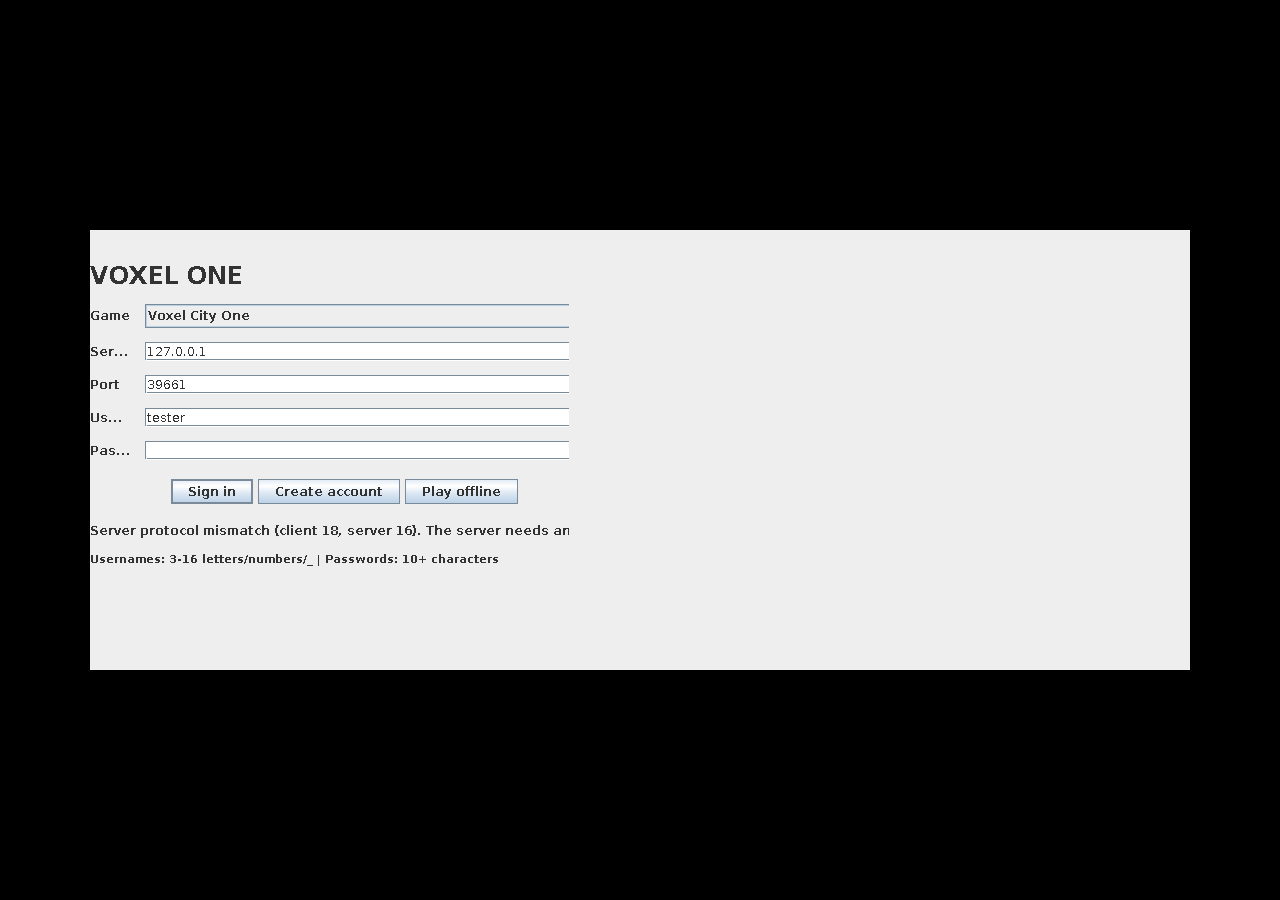
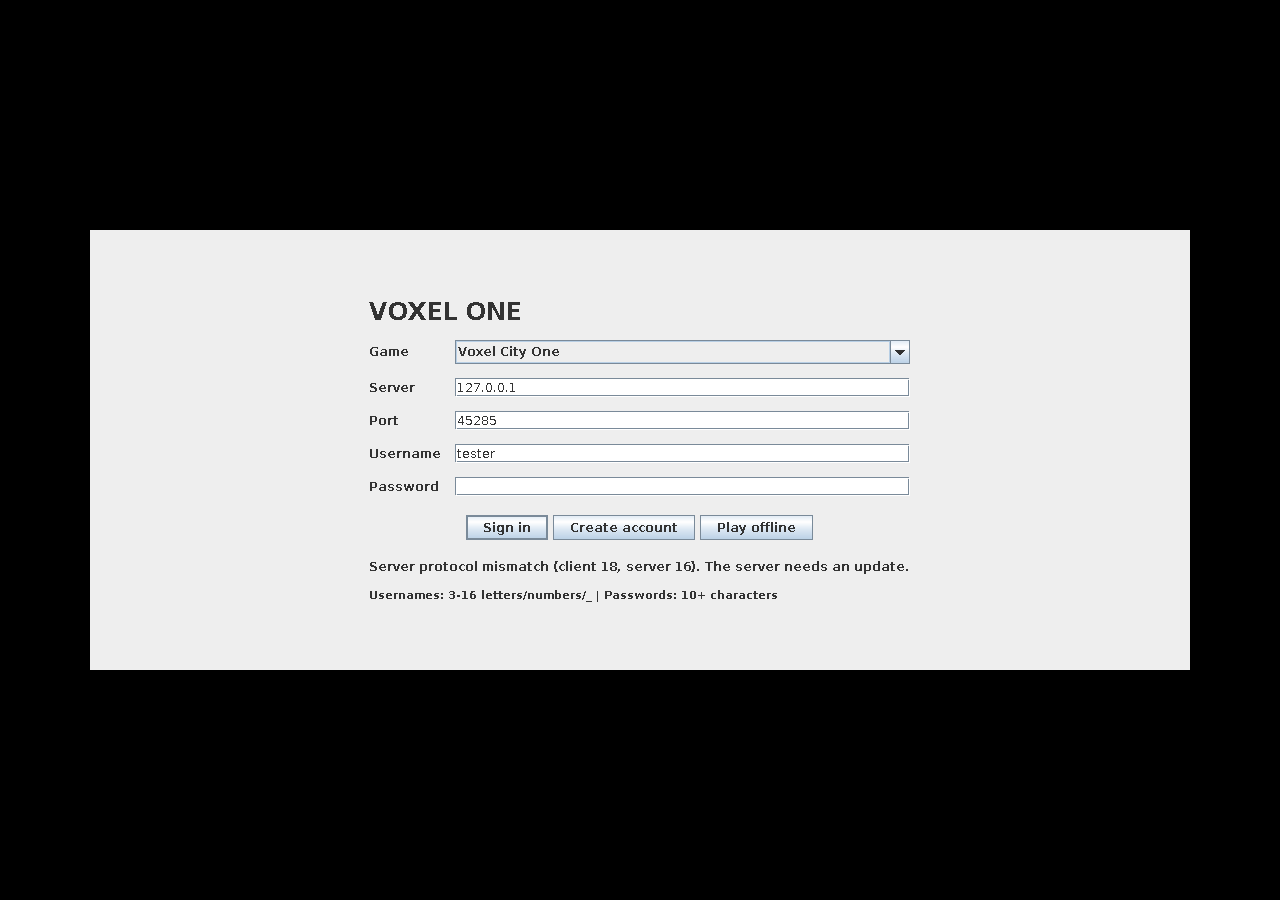
Implement queue work 35dbc009-2e52-40d3-9dcc-6d878171b983

diff --git a/src/test/java/dev/jayms/CityProtocolMedia.java b/src/test/java/dev/jayms/CityProtocolMedia.java
@@ -25,7 +25,7 @@ public final class CityProtocolMedia {
         int version = Integer.parseInt(args[0]);
         Path root = Path.of(args[1]).toAbsolutePath();
         Files.createDirectories(root);
-        System.setProperty("user.home", root.resolve("home-" + version).toString());
+        System.setProperty("user.home", Files.createTempDirectory(root, "home-" + version + "-").toString());
         var identity = SecureTransport.server(root.resolve("tls-" + version));
         var listener = identity.context().getServerSocketFactory()
                 .createServerSocket(0, 2, InetAddress.getLoopbackAddress());

diff --git a/dashboard/evidence/city-protocol-final-validation.md b/dashboard/evidence/city-protocol-final-validation.md
@@ -1,0 +1,71 @@
+# City protocol compatibility: required-base validation
+
+Production source: recovered head 735e96bb410e8d7801c44cf500ccd72c388dcc82,
+rebased onto reviewer-required 431ff142666f791c4323882075834f3390685153.
+All market code, tests, fixtures and evidence, and website queue code/tests are
+byte-identical to that base. Every unrelated progress entry is preserved after
+resolving the base's committed marker text to its newer queue record. Changed
+paths are restricted to login compatibility and its tests/media/progress.
+
+Environment: Linux, Java 25.0.3, Maven 3.9.11, checkout-local offline cache and
+temporary files. Executed:
+
+```sh
+/tmp/apache-maven-3.9.11/bin/mvn -o -Dmaven.repo.local="$PWD/target/recovery-m2" -Djansi.tmpdir="$PWD/target/tmp" -Djava.io.tmpdir="$PWD/target/tmp" "-DargLine=-Djava.io.tmpdir=$PWD/target/tmp" --batch-mode -Dtest=ProtocolCompatibilityTest,CityMultiplayerTest,MultiplayerTest,CityTest,SpecialBuildingsTest,CityToolsTest,BusinessCatalogTest,MarketEconomyTest,ExchangeLabourMarketTest,ShopRestockMarketTest verify
+node --test website/test/*.test.mjs
+```
+
+Website result: 10 tests passed, zero failures, exit 0. These noninteractive
+queue/package integrations exercise preserved website code; browser playtesting
+is not relevant to the desktop login fix.
+
+Base-preservation checks compare the changed-file list against the City-only
+allowlist and compare all non-City progress records with normalized base JSON.
+Both checks passed. The base's unrelated evidence and generated website JSON
+with pre-existing markers remain byte-identical; those files are not changed
+by this login fix.
+
+Java result: **77 tests, zero failures/errors/skips; BUILD SUCCESS, exit 0**.
+Client, server and launcher JARs packaged. MarketEconomyTest 13/13,
+ExchangeLabourMarketTest 6/6 and ShopRestockMarketTest 4/4 pass. These include
+market pricing, affordable supplier fills, meal nutrition/seller accounting,
+labour offers/payroll, restock depletion/budget cases and NaN wage rejection.
+CityToolsTest 9/9 retains direction-guide coverage.
+
+Playtest: production MultiplayerClient connects to synthetic pinned TLS peers.
+Requested behavior: protocol-18 login and registration retry 14/15, initial and
+streamed format-6 city snapshots decode, legacy terrain loads and road responses
+remain aligned. Edge cases: protocols 13/17 reject; newer capital/exchange
+commands stay local and SPECIAL is allowed only from 15. Regression: current
+protocol City authentication/synchronization plus multiplayer. Expected: all
+fixture assertions pass. Observed: ProtocolCompatibilityTest 2/2,
+CityMultiplayerTest 1/1 and MultiplayerTest 15/15 pass.
+
+Desktop Playtest command:
+
+```sh
+python3 deploy/capture_city_protocol.py
+```
+
+The fixture uses actual LoginDialog and Main, a synthetic loopback TLS peer,
+and a fresh checkout-local user.home per run. No private accounts/settings
+are read. Java Robot captures a 1280x900 Xvfb desktop with software OpenGL.
+The peer accepts protocol 14 only after the pinned reconnect and initial city
+snapshot READY. The separate protocol-16 peer produces the real mismatch
+message for the incompatible-version edge case. Password fields are cleared
+before capture. Browser playtesting does not apply to this desktop application.
+No live owner login or production deployment is claimed. The earlier sanitized
+controller probe established that the affected endpoint advertises protocol 14.
+
+Desktop capture completed with exit 0. Observed: pinned protocol-14 login
+reaches the rendered City world/HUD after Resume; protocol 16 remains on the
+actual mismatch screen (client 18/server 16), with server update guidance and
+an empty password field. Both fresh images were visually inspected.
+
+- city-protocol-legacy-login.png: 763510 bytes; SHA-256 ce4b9ac01cf25c2faeb7be9255d03d0104e0f6354d7e797931336c9be032ba2a. Pending controller publication: https://raw.githubusercontent.com/jaymsDooku/voxel-one/feature/queue-33356462633030392d326535322d343064332d396463632d366438373831373162393833/dashboard/evidence/city-protocol-legacy-login.png
+- city-protocol-incompatible.png: 11997 bytes; SHA-256 c5519ea0bd363cc80561a7384a64ba2d86a3d82dc74de8cc58fba96989e80929. Pending controller publication: https://raw.githubusercontent.com/jaymsDooku/voxel-one/feature/queue-33356462633030392d326535322d343064332d396463632d366438373831373162393833/dashboard/evidence/city-protocol-incompatible.png
+
+Capture helper now creates a fresh synthetic settings directory each run.
+Compilation through the capture script passed. git diff --check and Python
+compilation passed. These results supersede historical pre-rebase validation.
+No staging, commit, push, deployment or merge was performed by the developer.

diff --git a/dashboard/evidence/city-protocol-compatibility.md b/dashboard/evidence/city-protocol-compatibility.md
@@ -380,3 +380,10 @@ for the current required-base rebase. All non-City progress entries are retained
 Final resulting-source checks must include market and website regressions and
 fresh protocol-login media. No workflow checks or captures ran in this handoff.
 Controller must stage resolved files and continue without publication.
+
+## Required-base validation complete
+
+See city-protocol-final-validation.md for fresh source validation at 735e96b,
+77 passing Java tests plus packaging, 10 website checks and new desktop images.
+This supersedes all historical recovery/test sections above. Independent review
+and controller publication remain required; no developer approval is claimed.
